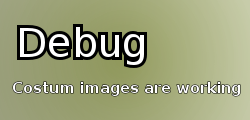
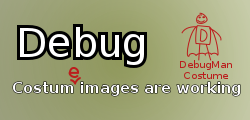
[added] app.css support [added] example for appCss (in debug-app as usual) [improved] debug appimage [improved] apploading [started] edgedependent positioning

Changed region(s): [[0.7, 0.1, 0.952, 0.675], [0.252, 0.55, 0.336, 0.7]]

diff --git a/js/app.js b/js/app.js
@@ -2,7 +2,9 @@ $.widget( "beamNG.app", $.ui.dialog, {
 	options: {
 		app: null,
 		persistance: undefined,
-		editMode: false
+		editMode: false,
+		refPointOffset : [0, 0],
+		referencePoint : [0, 0] // [0,0] = upper left, [1,1] = lower right
 	},
 
 	_create : function(){
@@ -89,12 +91,15 @@ $.widget( "beamNG.app", $.ui.dialog, {
 
 
 		// adding properties
+		this.element.addClass("app");
+
 		this.app.rootElement = $("<div></div>").css({
 			width: '100%',
 			height: '100%',
 			'min-width': '10px',
 			'min-height': '10px'
 		}).appendTo($(this.element));
+		this.app.rootElement.addClass(this.appName);
 
 		// adding savemethod
 		this.app.save = function(){ AppEngine.savePreset(); };
@@ -103,13 +108,19 @@ $.widget( "beamNG.app", $.ui.dialog, {
 		
 		this.app.initialize();
 
+		// installing handlers
 		this._on(this.element.parent(), {
 			resize:"resize",
+			drag:"drag"
 		});
-		this.resize();
+		this._on($(window),{
+			resize:"windowResize"
+		});
 
 		$(this.element).parents('.ui-dialog').addClass("ui-app");
 		this.dialogParent = $(this.element).parents('.ui-dialog');
+		this.dialogParent.draggable('option', 'snap', true);
+//		this.dialogParent.draggable('option', 'grid', [ 10, 10 ]);
 
 		this._setOption('editMode',AppEngine.editMode);
 	},
@@ -152,6 +163,18 @@ $.widget( "beamNG.app", $.ui.dialog, {
 		if (typeof this.app.resize === 'function') {
 			this.app.resize();
 		}
+	},
+	drag: function() {
+
+	},
+	windowResize: function(){
+
+	},
+	_setRefPointOffset: function(position){
+
+	},
+	_setPosition: function(refPointOffset){
+
 	}
 
 });
@@ -286,10 +309,8 @@ var AppEngine = {
 				}
 				appInstance = new window[app]();
 				console.log("Adding app "+app+" to Screen");
-				appElement = $('<div class="app '+app+'"></div>').appendTo($('body'));
+				appElement = $('<div></div>').appendTo($('body'));
 				appElement.app({ app: appInstance, "persistance" : persistance });
-				appElement.parents('.ui-dialog').draggable('option', 'snap', true);
-//				appElement.parents('.ui-dialog').draggable('option', 'grid', [ 10, 10 ]);
 				if(position !== undefined){
 					appElement.app("option","position",position);
 				}else{
@@ -483,6 +504,13 @@ var AppLoader = {
 			app = this.installedApps[i];
 			this._loadAppJs(app);
 			this._loadAppJson(app);
+
+			// load css
+			var cssNode = document.createElement("link");
+			cssNode.setAttribute("rel", "stylesheet");
+			cssNode.setAttribute("type", "text/css");
+			cssNode.setAttribute("href", "apps/"+app+"/app.css");
+			$(cssNode).appendTo("head");
 		}
 	},
 

diff --git a/apps/Debug/app.js b/apps/Debug/app.js
@@ -1,7 +1,7 @@
 function Debug(){}
 
 Debug.prototype.initialize = function(){
-	this.display = $("<span>"+this.persistance["rand"]+"</span>").appendTo(this.rootElement);
+	this.display = $("<span>"+this.persistance["rand"]+"</span>").appendTo(this.rootElement).addClass('someOtherClass');
 	var self = this;
 	$("<a href='#'>setrandomvalue</a>").click(function(){self.randomValue();}).appendTo(this.rootElement);
 };

diff --git a/apps/Debug/app.css b/apps/Debug/app.css
@@ -1,0 +1,9 @@
+.app .Debug
+{
+	background: green;
+}
+.app .Debug .someOtherClass
+{
+	background: blue;
+	color: white;
+}
